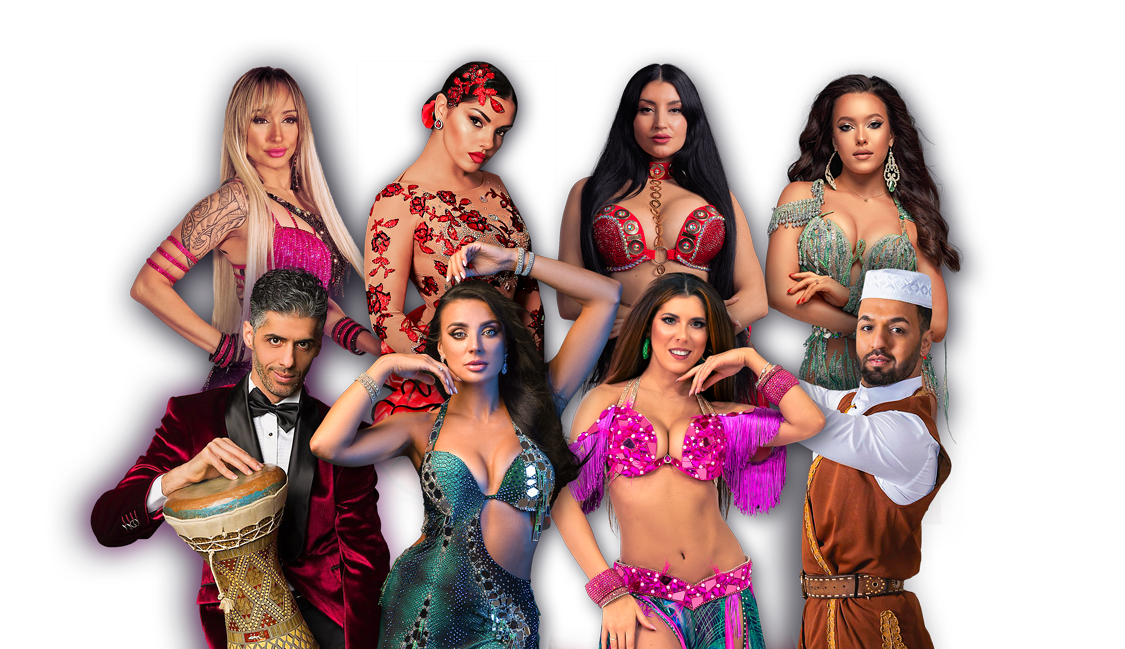
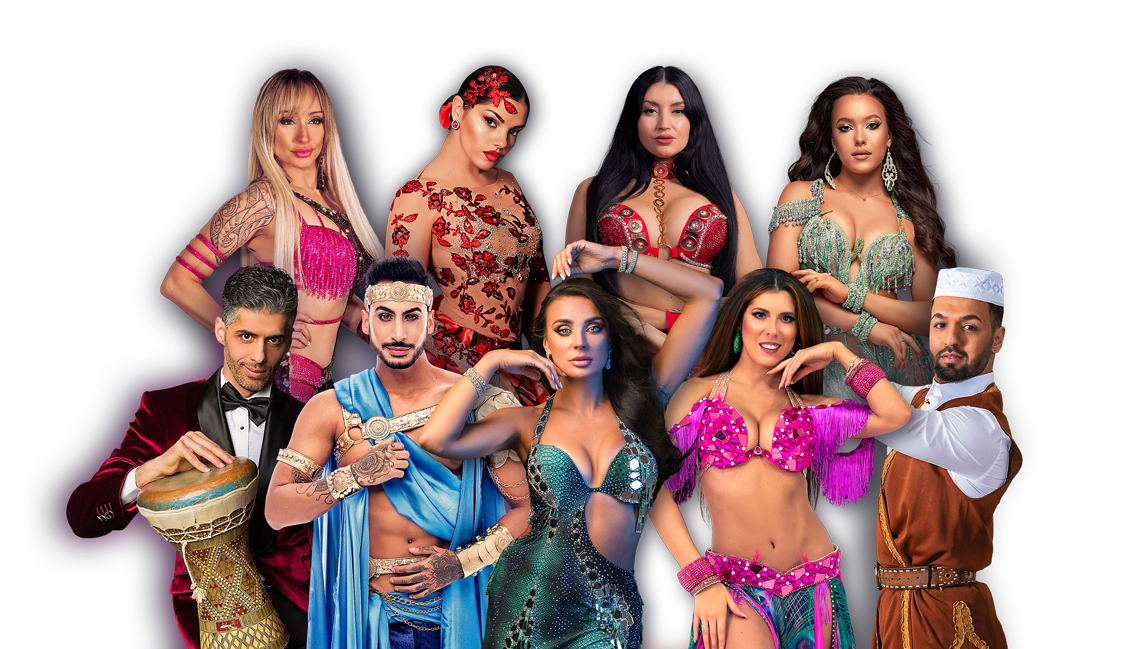
feat: add Leandro

diff --git a/src/ulis/schedule.ts b/src/ulis/schedule.ts
@@ -100,12 +100,12 @@ export const schedule: Day[] = [
         type: 'workshop',
         translations: {
           en: {
-            title: 'Aliah',
-            description: 'Pop\u00A0song choreography',
+            title: 'Leandro Ferreyra',
+            description: 'TBA',
           },
           ru: {
-            title: 'Aliah',
-            description: 'Хореография Pop song',
+            title: 'Leandro Ferreyra',
+            description: 'TBA',
           },
         },
       },
